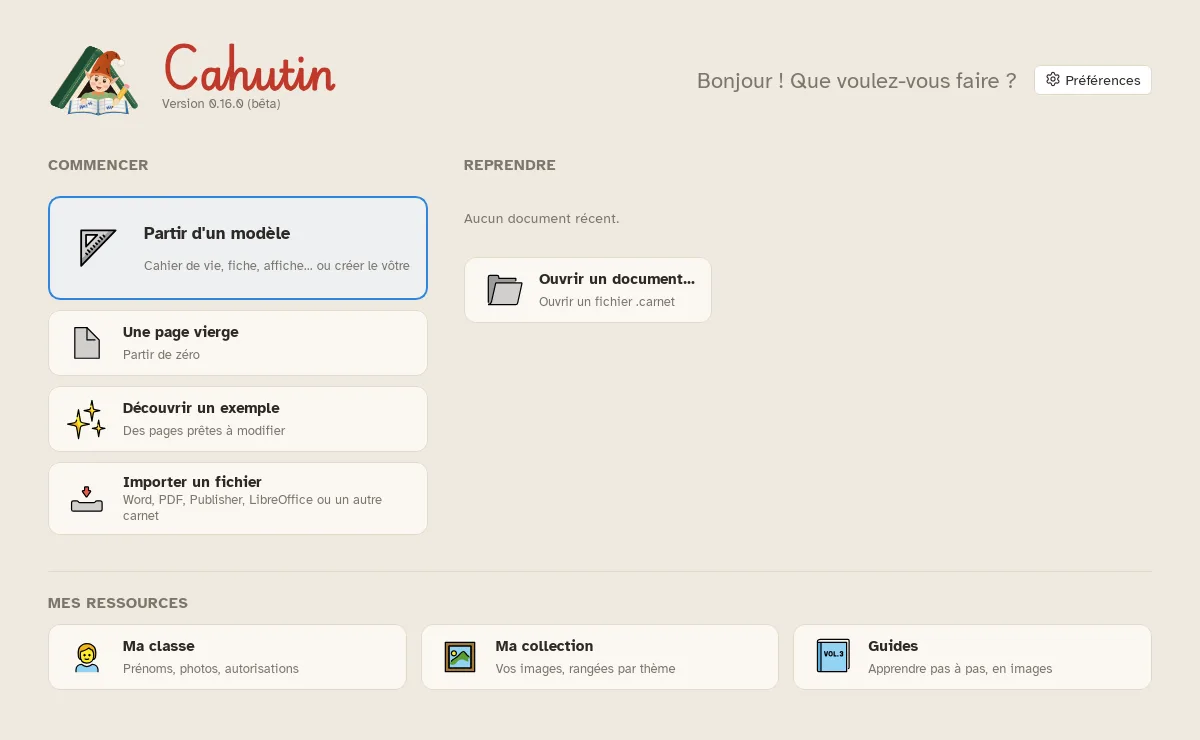
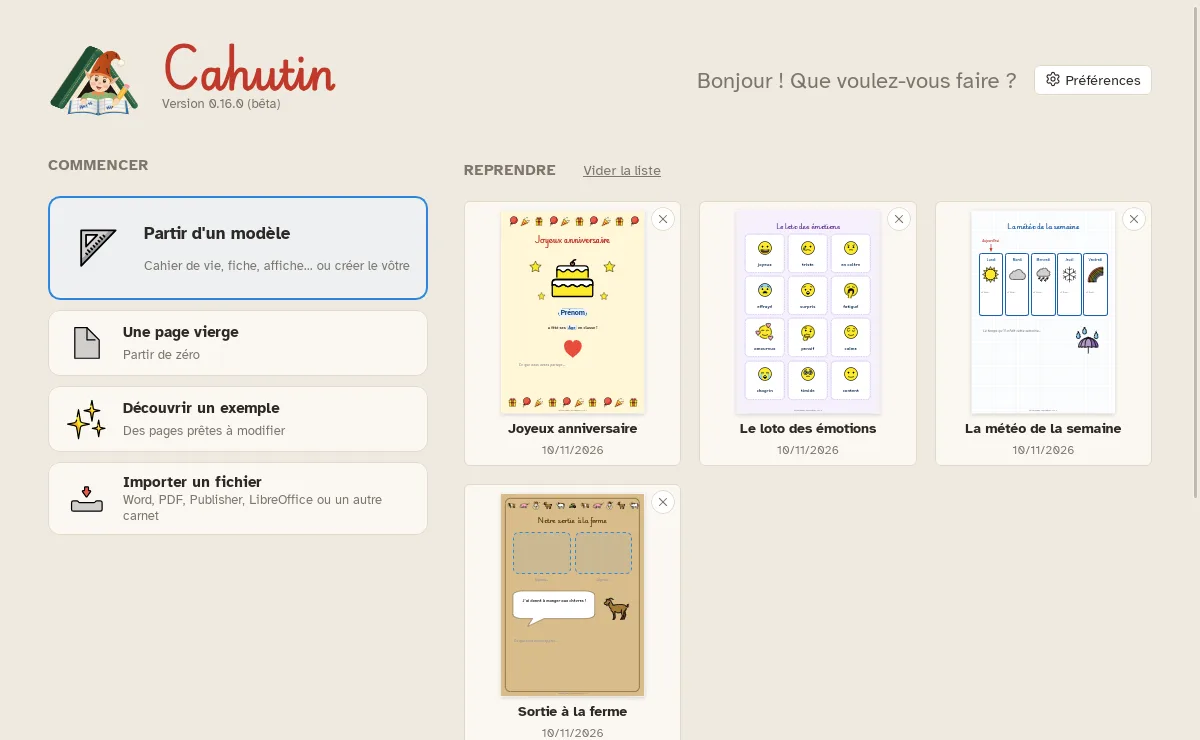
docs: nouveauté « nouveau visage » avec des documents récents, script de captures plus sûr
La capture de l'accueil montre des documents récents. Le script lit la version
des nouveautés dans l'application, crée la classe d'exemple dès le départ et
arrête tous ses processus. « Des icônes livrées avec Cahutin » : ce sont celles
de Lucide.

Claude-Session: https://claude.ai/code/session_01RanHT3GQoUNPZfYwhytz9L

diff --git a/ui/src/App.svelte b/ui/src/App.svelte
@@ -107,7 +107,7 @@
   // Nouvelles versions : seulement si l'utilisateur l'a accepté, au plus une fois par jour.
   void updates.checkIfDue();
   // Accès pour les tests de bout en bout (tauri-driver), en développement seulement.
-  if (import.meta.env.DEV) Object.assign(window, { __editor: editor, __carnet: { importPaths, fonts, save, openPath, openExampleDoc, settings, guides, classes, classLibrary, exportPdf, exportOdg } });
+  if (import.meta.env.DEV) Object.assign(window, { __editor: editor, __carnet: { importPaths, fonts, save, openPath, openExampleDoc, settings, guides, whatsNew: WHATS_NEW, classes, classLibrary, exportPdf, exportOdg } });
 
   // Préférences d'affichage : police et couleurs de l'interface, taille des poignées, taille de tout (la
   // fenêtre zoome comme Ctrl+ dans un navigateur ; la page, en « Ajuster », reste à la largeur de l'écran).

diff --git a/ui/src/lib/whatsNew.ts b/ui/src/lib/whatsNew.ts
@@ -22,7 +22,7 @@ export const RELEASES: Release[] = [
     items: [
       {
         title: "Un nouveau visage",
-        text: "Des icônes dessinées pour Cahutin, les mêmes sur tous les ordinateurs. L'accueil se range en deux colonnes : « Commencer » un document, ou « Reprendre » un document récent. En bas de la fenêtre, toutes les commandes de la page restent visibles sur une seule ligne.",
+        text: "Des icônes livrées avec Cahutin, les mêmes sur tous les ordinateurs. L'accueil se range en deux colonnes : « Commencer » un document, ou « Reprendre » un document récent. En bas de la fenêtre, toutes les commandes de la page restent visibles sur une seule ligne.",
         image: "/nouveautes/0.16/look.webp",
       },
       {
